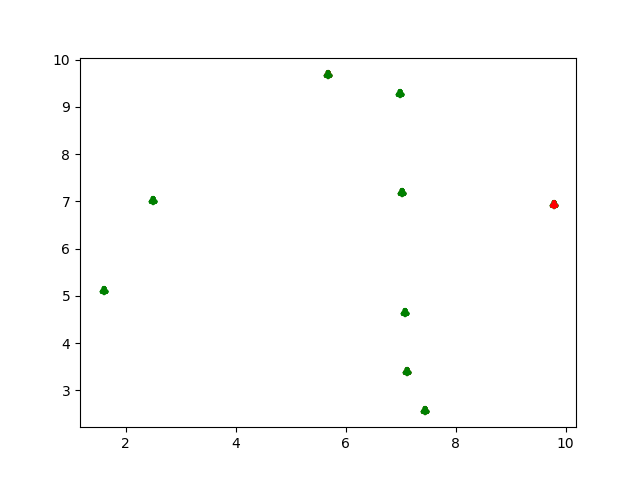
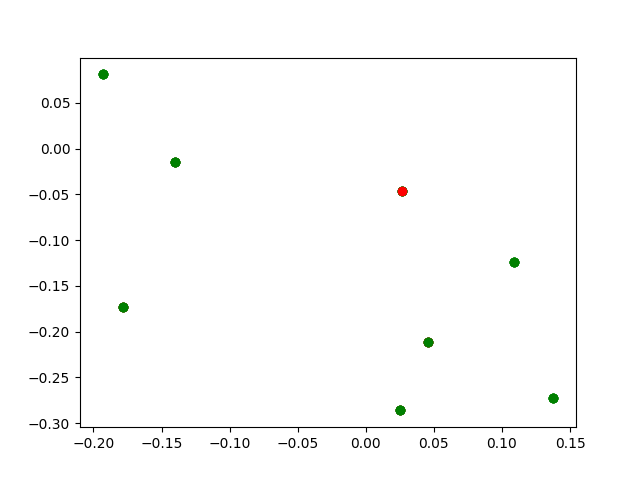
loading actual data atoms

diff --git a/variables.py b/variables.py
@@ -3,6 +3,7 @@ import pathlib as pl
 import matplotlib.pyplot as plt
 import numpy as np
 from metastimuli_video import *
+import pickle
 
 # extract scene transitions
 
@@ -11,16 +12,14 @@ mv.get_scene_transitions() # this saves into mv.timestamps
 
 # import projected atom arrays
 
-# should import from Dane's work but generating for now
-np.random.seed(19680801)
-n_atoms = 9
-atoms = np.random.rand(2,n_atoms) * 10.0
+atoms = pickle.load(open( "chi_pred.pkl", "rb" )).transpose()
+n_atoms = np.shape(atoms)[1]
 
 # make plots
 
 for i in range(0,n_atoms):
-	plt.scatter(atoms[0,:],atoms[1,:], c="g", marker=r'$\clubsuit$')
-	plt.scatter(atoms[0,i],atoms[1,i], c="r", marker=r'$\clubsuit$')
+	plt.scatter(atoms[0,:],atoms[1,:], c="g", marker='o')
+	plt.scatter(atoms[0,i],atoms[1,i], c="r", marker='o')
 	plt.savefig(f'lucky_{i}.png', transparent=True)
 
 # overlay on video
@@ -31,7 +30,7 @@ for i in range(0,n_atoms):
 		f'lucky_{i}.png', # image file
 		i # atom index
 	)
-mv.export()
+# mv.export()
 
 # mv = metavid('variables.mp4')
 # mv.timestamps_extract('variables_transitions.txt')
